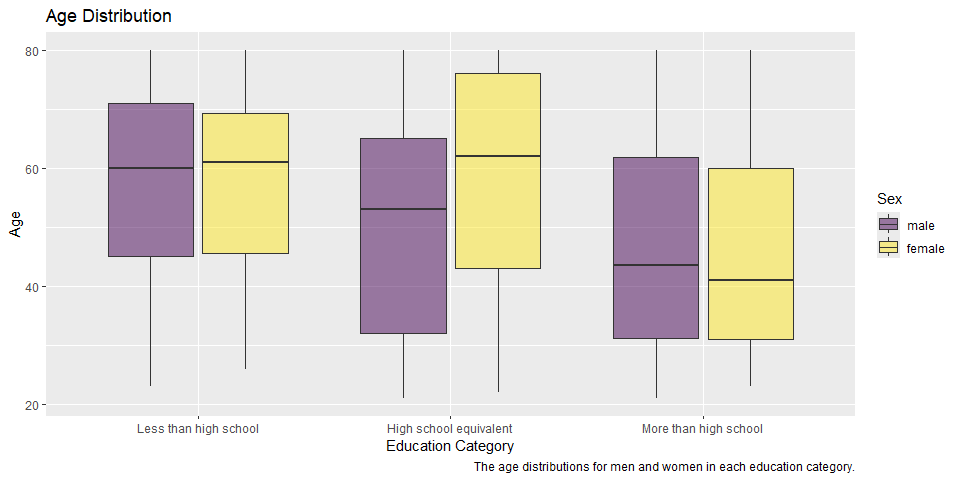
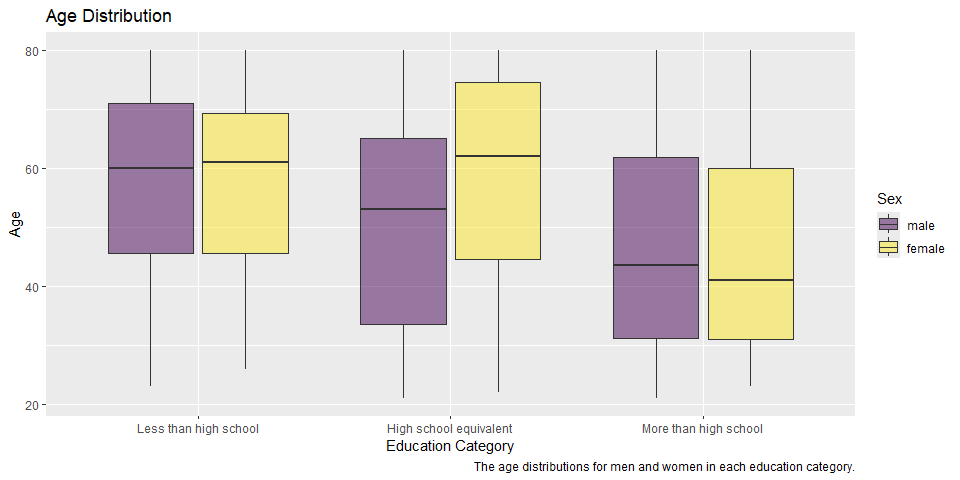
correction for problem 2 (distinct individual) + captions change

diff --git a/p8105_hw3_jz3902.md b/p8105_hw3_jz3902.md
@@ -236,7 +236,7 @@ Steps:
 
 ``` r
 mims_df %>% 
-  select(sex, education) %>% 
+  distinct(seqn, sex, education) %>% 
   group_by(sex, education) %>% 
   summarize(n_obs = n()) %>% 
   pivot_wider(
@@ -248,8 +248,8 @@ mims_df %>%
 
 | sex    | Less than high school | High school equivalent | More than high school |
 |:-------|----------------------:|-----------------------:|----------------------:|
-| male   |                 38880 |                  50400 |                 80640 |
-| female |                 40320 |                  33120 |                 84960 |
+| male   |                    27 |                     35 |                    56 |
+| female |                    28 |                     23 |                    59 |
 
 - For the “less than high school” and “more than high school”
   categories, the numbers of male and female participants are similar.
@@ -260,8 +260,7 @@ mims_df %>%
 
 ``` r
 mims_df %>% 
-  select(sex, education, age) %>% 
-  group_by(sex, education) %>% 
+  distinct(seqn, sex, education, age) %>% 
   ggplot(aes(x = education, y = age, fill = sex)) +
   geom_boxplot(alpha = .5) +
   labs(
@@ -294,7 +293,7 @@ mims_df %>%
   facet_grid(. ~education) +
   geom_smooth(se = FALSE) +
   labs(
-    title = "Total Accelerometer Activity vs Age",
+    title = "Total Accelerometer Activity",
     x = "Age",
     y = "Total Activity",
     color = "Sex",
@@ -512,7 +511,7 @@ result_citi %>%
   geom_line() +
   facet_grid(. ~year) +
   labs(
-    title = "Median Ride Duration vs Weekdays",
+    title = "Median Ride Duration",
     x = "Weekdays",
     y = "Median Ride Duration",
     color = "Month",
@@ -546,7 +545,7 @@ result_citi %>%
   geom_boxplot(alpha = .5) +
   facet_grid(. ~month) +
   labs(
-    title = "Ride Duration vs Membership Status (2024)",
+    title = "Ride Duration in 2024",
     x = "Membership Status",
     y = "Ride Duration",
     fill = "Bike Type",
